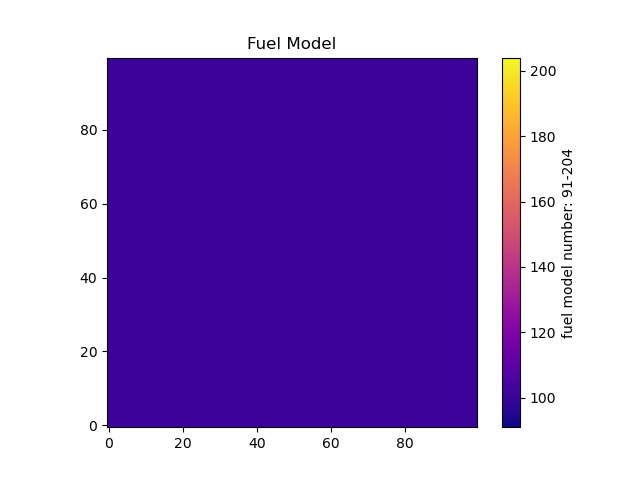
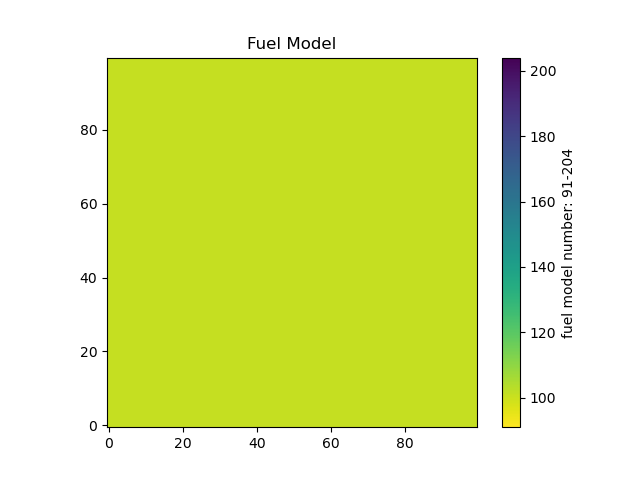
Changed fuel model heatmap color ramps for easier viewing

diff --git a/docs/index.html b/docs/index.html
@@ -9947,7 +9947,7 @@ pprint(get_array_stats_fork(output_matrices_fork[<span class="org-string">"time_
 </pre>
 </div>
 
-<pre class="example" id="org6119235">
+<pre class="example" id="orgdc9a444">
 Fire Behavior from Day 2 @ 10:30am - Day 2 @ 10:30pm Spreading from Coordinate (50,50)
 ====================================================================================================
 Stop Time (Main): 2790.0 (minutes)
@@ -10015,7 +10015,7 @@ Fork: {'Min': 2081.8513, 'Max': 2789.7424, 'Mean': 2539.637, 'Stdev': 171.93935}
 <span class="org-variable-name">heatmap_configs</span> <span class="org-operator">=</span> [
     {
         <span class="org-string">"matrix"</span>  : space_time_cubes[<span class="org-string">"fuel_model"</span>].getSpatialPlane(0, (<span class="org-constant">None</span>, <span class="org-constant">None</span>), (<span class="org-constant">None</span>, <span class="org-constant">None</span>)),
-        <span class="org-string">"colors"</span>  : <span class="org-string">"plasma"</span>,
+        <span class="org-string">"colors"</span>  : <span class="org-string">"viridis_r"</span>,
         <span class="org-string">"units"</span>   : <span class="org-string">"fuel model number: 91-204"</span>,
         <span class="org-string">"title"</span>   : <span class="org-string">"Fuel Model"</span>,
         <span class="org-string">"filename"</span>: <span class="org-string">"pics/els_fuel_model_main.png"</span>,
@@ -10024,7 +10024,7 @@ Fork: {'Min': 2081.8513, 'Max': 2789.7424, 'Mean': 2539.637, 'Stdev': 171.93935}
     },
     {
         <span class="org-string">"matrix"</span>  : space_time_cubes_fork[<span class="org-string">"fuel_model"</span>].getSpatialPlane(0, (<span class="org-constant">None</span>, <span class="org-constant">None</span>), (<span class="org-constant">None</span>, <span class="org-constant">None</span>)),
-        <span class="org-string">"colors"</span>  : <span class="org-string">"plasma"</span>,
+        <span class="org-string">"colors"</span>  : <span class="org-string">"viridis_r"</span>,
         <span class="org-string">"units"</span>   : <span class="org-string">"fuel model number: 91-204"</span>,
         <span class="org-string">"title"</span>   : <span class="org-string">"Fuel Model"</span>,
         <span class="org-string">"filename"</span>: <span class="org-string">"pics/els_fuel_model_fork.png"</span>,
